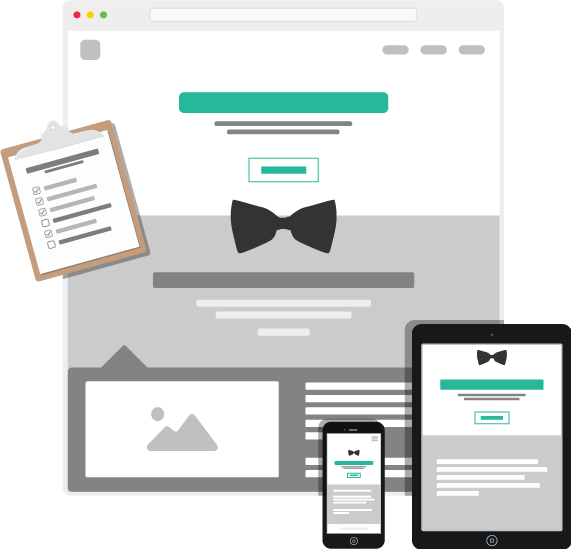
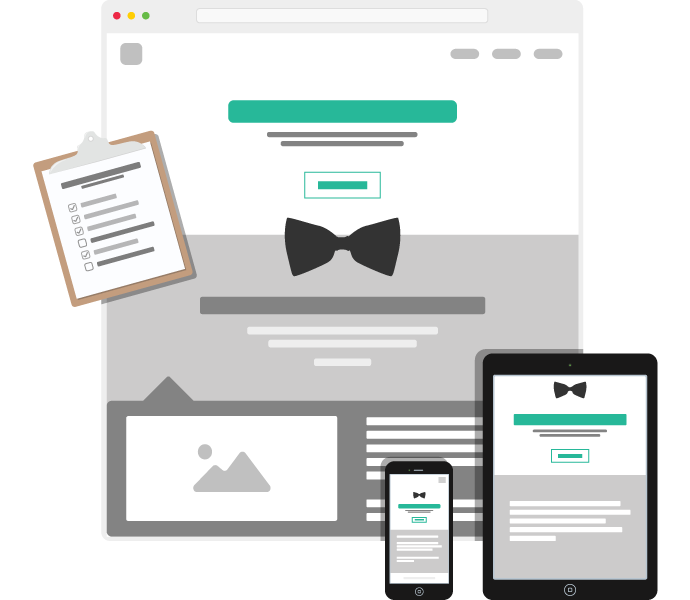
Style second feature section

diff --git a/app/assets/stylesheets/_home.scss b/app/assets/stylesheets/_home.scss
@@ -79,21 +79,45 @@ main {
 
 
 // --------------------------------------
-// SECTION 1
+// FEATURES
 // --------------------------------------
-#first-section {
+.text-left {
+	.col-1-3,
+	.col-2-3 {
+		float: right;
+	}
+
+	.col-1-3 {
+		text-align: right;
+	}
+}
+
+.text-right {
+	.col-1-3,
+	.col-2-3 {
+		float: left;
+	}
+}
+
+.feature {
 	@extend %clearfix;
 
 	padding: 3.5rem 0;
 	
 	strong {
 		font-weight: 400;
+		color: $primary-color;
+	}
+
+	.container {
+		padding-right: 5rem;
+		padding-left: 5rem;
 	}
 
 	.section-title {
 		font-size: 2rem;
 		font-weight: 500;
-		padding-top: 2rem;
+		padding-top: 1.6rem;
 	}
 
 	.section-description {
@@ -104,22 +128,18 @@ main {
 		color: $lighter-gray;
 	}
 
-	.col-1-3,
-	.col-2-3 {
-		float: right;
-	}
-
-	.img-wrap {
-		text-align: center;
+	.col-1-3 {
+		min-width: 200px;
 
 		img {
-			width: 60%;
-			min-width: 140px;
+			width: 90%;
+			min-width: 160px;
 		}
 	}
 
 	@media (max-width: 992px) {
 		text-align: center;
+		padding: 2.5rem 0;
 
 		.section-title {
 			padding-top: 1rem;
@@ -132,6 +152,17 @@ main {
 
 		.col-2-3 {
 			width: 100%;
+		}
+
+		.col-1-3 {
+			text-align: center;
+		}
+	}
+
+	@media (max-width: 1200px) {
+		.container {
+			padding-right: 24px;
+			padding-left: 24px;
 		}
 	}
 }
